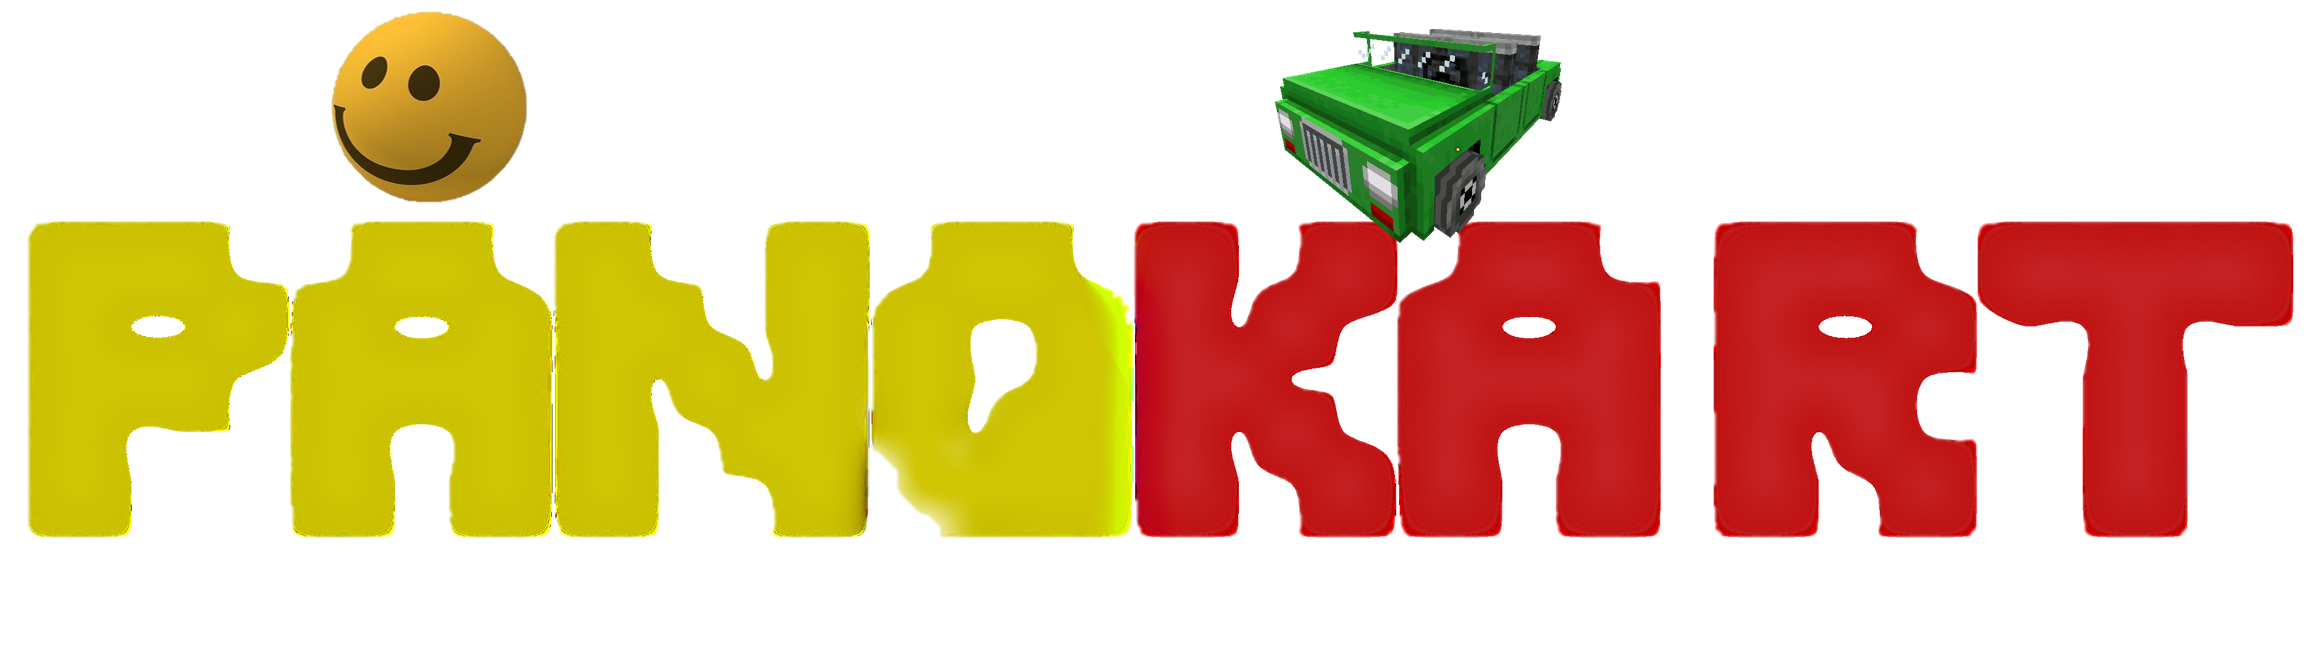
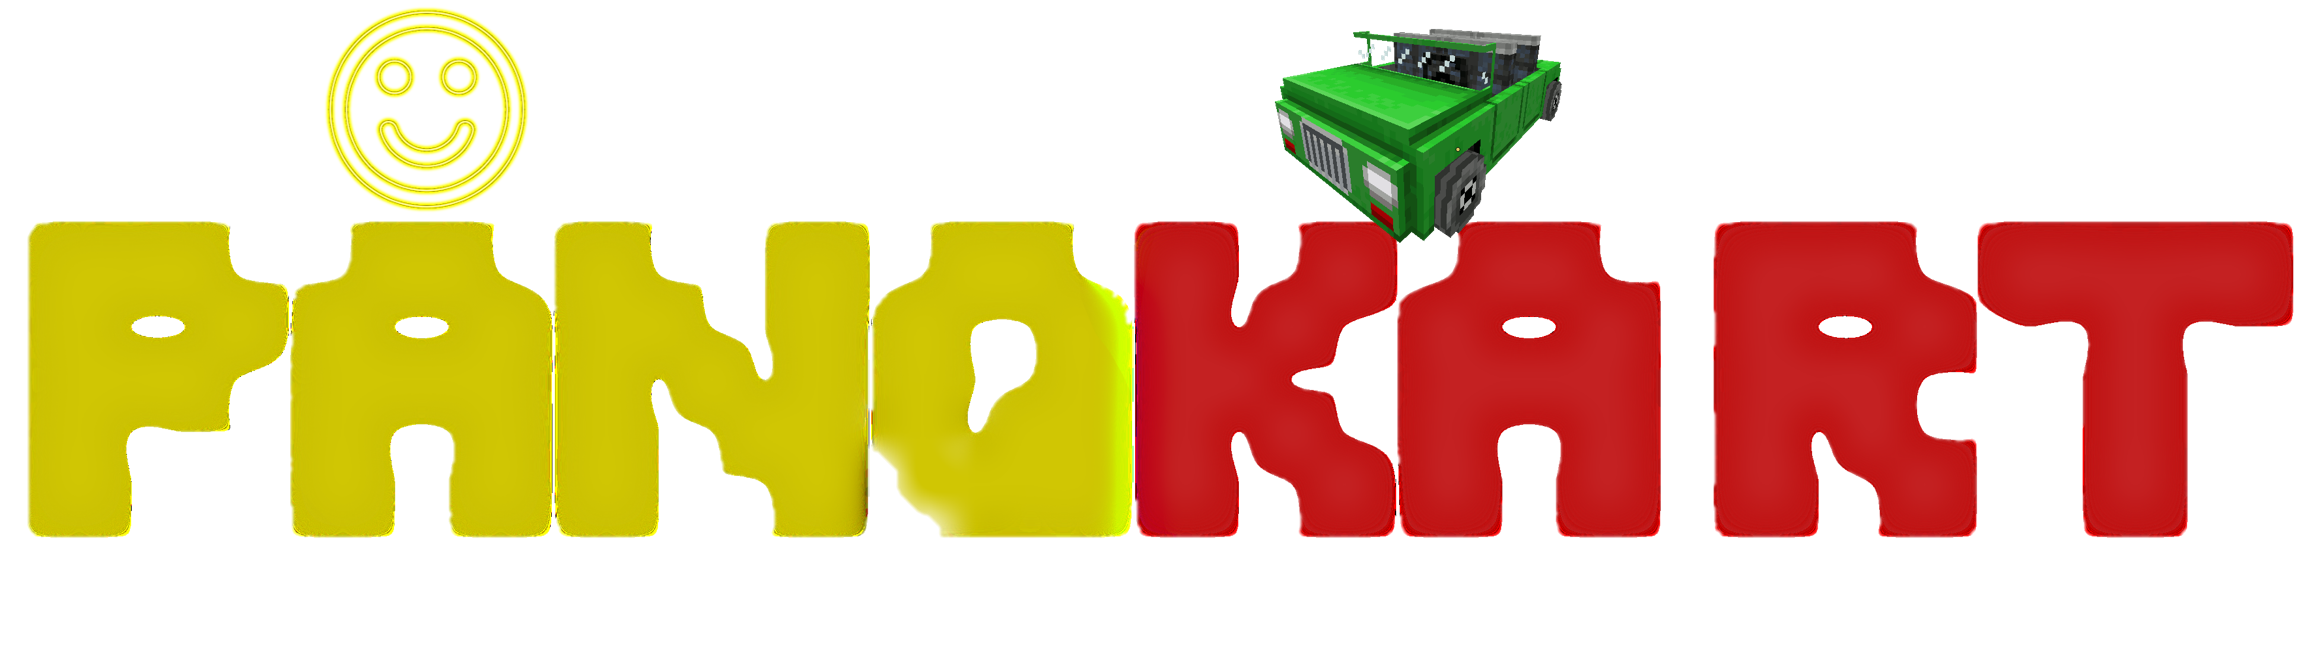
Fix licensing issues

Changed region(s): [[0.1241, 0.0, 0.2483, 0.3308]]

diff --git a/LICENSE.md b/LICENSE.md
@@ -22,8 +22,8 @@ If not yet specified, all media/textures fall under [CC BY-SA 4.0 International]
 
 License of `menu/header.png`:
 
-- The green car was taken from <https://forum.minetest.net/viewtopic.php?f=9&t=6512> ([CC BY-NC-SA 3.0](http://creativecommons.org/licenses/by-nc-sa/3.0/))
-- The smiley face was taken from <https://pixabay.com/illustrations/smiley-face-emoji-emote-1039937/> (free, no license)
+- The green car was taken from <https://forum.minetest.net/viewtopic.php?f=9&t=6512> ([CC BY-NC-SA 3.0](https://creativecommons.org/licenses/by-nc-sa/3.0/))
+- The smiley face was made by [**Gabri**](https://liberapay.com/Methro), a.k.a. "Methro", "SiLeNT", "chocomint"; licensed under the [CC BY-NC-SA 4.0](https://creativecommons.org/licenses/by-nc-sa/4.0/) license.
 
 Copyright (C) 2022 David Leal <halfpacho@gmail.com>\
 The `PanqKart` text is licensed under [CC BY-SA 4.0 International](https://creativecommons.org/licenses/by-sa/4.0/)
